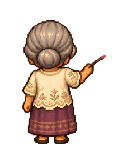
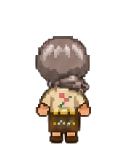
Replaced level 5 lola

diff --git a/tools/build_mayon_performance.py b/tools/build_mayon_performance.py
@@ -1,5 +1,5 @@
 #!/usr/bin/env python3
-"""Cut the original generated Mayon performance atlases into registered game sprites.
+"""Cut Mayon's actor atlases and supplied Lola performance board into game sprites.
 
 This is extraction, not sprite recolouring: originals and prompts are retained in
 LEVEL5_Mayon/authored. One scale per actor preserves head size in seated poses.
@@ -7,18 +7,76 @@ LEVEL5_Mayon/authored. One scale per actor preserves head size in seated poses.
 from pathlib import Path
 import argparse
 from PIL import Image
+import numpy as np
+from scipy import ndimage
 import pixelart
 from build_portrait_outlines import outlined
 
 ROOT = Path(__file__).resolve().parent.parent
 SOURCE = ROOT / 'LEVEL5_Mayon/authored'
 OUT = ROOT / 'game/assets/Level5'
-LOLA = ['back', 'paint', 'turn', 'front', 'flowers', 'remember', 'seated', 'seated_flowers']
 APO = ['raise', 'paint', 'failed', 'lower', 'seated', 'seated_paint', 'offer', 'pickup']
 # Cells the atlases still hold but the game no longer shows: the real room went when the run
 # began ending in the house (#182). The lists above stay whole because they name the atlas's
 # cells in order; these are only not written. frame_room.png is kept with the other originals.
 RETIRED = {'seated', 'seated_flowers', 'seated_paint', 'pickup'}
+LOLA_CELL = (128, 144)
+LOLA_HEIGHT = 108
+
+
+def silhouette(sheet, region):
+    """Extract an actor without disconnected tips from an adjacent atlas cell."""
+    frame = sheet.crop(region)
+    alpha = np.asarray(frame.getchannel('A')).copy()
+    components, _ = ndimage.label(alpha >= 32, structure=np.ones((3, 3)))
+    areas = np.bincount(components.ravel())
+    areas[0] = 0
+    alpha[components != int(areas.argmax())] = 0
+    frame.putalpha(Image.fromarray(alpha))
+    return frame
+
+
+def registered_strip(frames, walking=False):
+    bounds = [frame.getbbox() for frame in frames]
+    scale = LOLA_HEIGHT / max(box[3] - box[1] for box in bounds)
+    baseline = max(box[3] for box in bounds)
+    strip = Image.new('RGBA', (LOLA_CELL[0] * len(frames), LOLA_CELL[1]))
+    for i, frame in enumerate(frames):
+        bottom = baseline if walking else bounds[i][3]
+        feet = frame.crop((0, bottom - 10, frame.width, bottom)).getbbox()
+        centre = frame.width / 2 if walking else (feet[0] + feet[2]) / 2
+        size = (round(frame.width * scale), round(frame.height * scale))
+        strip.alpha_composite(frame.resize(size, Image.Resampling.NEAREST),
+                              (i * LOLA_CELL[0] + LOLA_CELL[0] // 2 - round(centre * scale),
+                               LOLA_CELL[1] - round(bottom * scale)))
+    return strip
+
+
+def lola_assets():
+    sheet = Image.open(SOURCE / 'lola_supplied_sheet.png').convert('RGBA')
+    sheet.putalpha(sheet.getchannel('A').point(lambda a: a if a >= 32 else 0))
+    regions = {
+        'front': (310, 30, 410, 190),
+        'turn': (595, 30, 690, 190),
+        'back': (875, 30, 985, 190),
+        'flowers': (285, 410, 385, 550),
+        'remember': (405, 410, 510, 550),
+    }
+    for pose, region in regions.items():
+        frame = silhouette(sheet, region)
+        yield pose, registered_strip([frame])
+    walks = [silhouette(sheet, (295 + i * 119, 250, 405 + i * 119, 385)) for i in range(6)]
+    yield 'walk', registered_strip(walks, walking=True)
+    # Two supplied six-frame painting loops, then six pause/idle variations.
+    painting = Image.new('RGBA', (18 * LOLA_CELL[0], LOLA_CELL[1]))
+    for row, (top, bottom) in enumerate([(800, 975), (1020, 1205), (1250, 1445)]):
+        poses = [silhouette(sheet, (30 + i * 165, top, 170 + i * 165, bottom)) for i in range(6)]
+        # The board draws its three animation rows at different source sizes.
+        painting.alpha_composite(registered_strip(poses), (row * 6 * LOLA_CELL[0], 0))
+    yield 'painting_idle', painting
+    yield 'paint', painting.crop((3 * LOLA_CELL[0], 0, 4 * LOLA_CELL[0], LOLA_CELL[1]))
+    portrait = silhouette(sheet, (30, 65, 245, 338))
+    yield 'portrait', outlined(portrait.crop(portrait.getbbox()))
 
 
 def atlas(name, poses, height, cell):
@@ -45,19 +103,13 @@ def main():
     args = parser.parse_args()
     pictures = pixelart.Pictures(args.check, ROOT)
     for who, source, poses, height, cell in [
-        ('lola', 'lola_atlas.png', LOLA, 124, (128, 144)),
         ('apo', 'apo_performance_atlas.png', APO, 96, (112, 112)),
     ]:
         for pose, image in atlas(source, poses, height, cell):
             if pose not in RETIRED:
                 pictures.put(image, OUT / 'people' / f'{who}_{pose}.png')
-    sheet = Image.open(SOURCE / 'lola_atlas.png').convert('RGBA')
-    portrait = sheet.crop((1152 + 52, 54, 1536 - 48, 405))
-    # The same silhouette contract as the other dialogue speakers; this crop already
-    # ends below the hands, so it is a complete bust rather than another sprite cell.
-    portrait = outlined(portrait)
-    portrait = portrait.resize((round(portrait.width * 220 / portrait.height), 220), Image.Resampling.NEAREST)
-    pictures.put(portrait, OUT / 'people/lola_portrait.png')
+    for pose, image in lola_assets():
+        pictures.put(image, OUT / 'people' / f'lola_{pose}.png')
     if pictures.stale:
         raise SystemExit('Stale performance assets: ' + ', '.join(pictures.stale))
 

diff --git a/tools/build_mayon_lola.py b/tools/build_mayon_lola.py
@@ -1,7 +1,7 @@
 #!/usr/bin/env python3
 """Compatibility entry point for the dedicated Mayon performance asset builder.
 
-The old apo recolour has been replaced by a registered eight-pose Lola atlas.
+Lola uses the supplied board's turnaround, walking, painting loops and idle variations.
 Use build_mayon_performance.py for all character, room, and summit cuts.
 """
 from build_mayon_performance import main

diff --git a/ART_PLACEHOLDERS.md b/ART_PLACEHOLDERS.md
@@ -393,7 +393,7 @@ The darkness itself (`DarknessLayer`) is gameplay too: `LightField` decides what
 | **A loose page of her diary** | A 14 × 18 folded sheet with her lines on it, drawn pixel by pixel in the diary book's own five colours, shown at 2×, a little askew and bobbing. It has to say: *a page of a diary, dropped here, worth picking up*. | `game/assets/hud/diary_page.png` (`tools/build_diary_book.py`, `PAGE`), `game/scripts/diary_page_2d.gd` | A hand-drawn loose page of the same book; keep its foot at the bottom edge. |
 
 | **Lolo in her paintings** | Kent's own sheets of him alive (`game/assets/characters/lolo/source/LOLO1-5.png`, not imported), the FRONT pose cut and brought down to 18 px, standing in each painting's foreground -- young in Payyo, old in Mayon. At that size his eyes are lost. | `game/assets/hub/paintings/level_N_lolo.png` (`tools/build_house_lolo.py`), hung by `HouseEpilogue` once Mayon is done | A painter's figure of him drawn into each picture at its scale; keep it on the same foreground spot (`SPOTS`). |
-| **Lola walking** | Her side-on "turn" pose, flipped and stepping two pixels every quarter second -- there is no walk cycle. | `Lola2D.walk_to` | A walk cycle with the same foot registration as her other poses. |
+| **Lola walking** | Supplied six-frame walk cycle (5 November), mirrored leftward with a shared baseline. | `Lola2D.walk_to`, `people/lola_walk.png` | Done; replacement contract in the Mayon authored README. |
 | **The empty easel** | Drawn in code: three legs and a bare canvas at the house's scale (96 × 56). | `HouseEpilogue._draw_easel` | An easel sprite, its canvas bare; she paints at its left. |
 
 The book itself (`game/assets/hud/diary_book.png`) is not a placeholder: it is the delivered page
@@ -420,7 +420,7 @@ include.
 
 | | Now | Where | Replace with |
 |---|---|---|---|
-| **Lola** | Dedicated generated painting, turning, flower, returning, and seated poses; a separately cut and outlined portrait. | `game/assets/Level5/people/lola_*.png` (`tools/build_mayon_performance.py`) | Art-directed same-name poses with the same foot registration. |
+| **Lola** | Latest supplied board (5 November): turnaround, walk, two six-frame painting loops, six idle variations and large portrait. 108px world height. Front/back bouquet poses are generated adaptations of that design. | `game/assets/Level5/people/lola_*.png` (`tools/build_mayon_performance.py`) | Supplied character integrated; bouquet adaptations remain generated. Same-name replacements preserve foot registration. |
 | **The real room** | **Removed** (2026-11-01): the run ends in the house (`HouseEpilogue`), and `frame_return.gd` went with #182. The room, and Lola's and the apo's seated and pickup poses, are no longer cut into the game; the generated original stays in `LEVEL5_Mayon/authored/frame_room.png`. | -- | Nothing, unless the room comes back. |
 | **The apo's performance** | Generated raise, paint, failed, lower and offer poses. Quiet strokes fade over the actual scene. | `game/assets/Level5/people/apo_*.png`, `level_5.gd` | Art-directed poses or animation preserving actor scale and feet. |
 | **Memory fragments** | Torn boxes of the finished paintings; the flower's is a scrap of path tile with Payyo's hidden flower. | `game/assets/Level5/fragments/` (`tools/build_mayon_fragments.py`) | Hand-torn fragments; the flower's should look like nothing. |

diff --git a/LEVEL5_Mayon/authored/README.md b/LEVEL5_Mayon/authored/README.md
@@ -4,7 +4,7 @@ Generated on 31 October 2026 with the built-in OpenAI image_gen tool. The origin
 apo turnaround and delivered Mayon painting were style references. Full prompts
 are retained in `prompts.json`; no downloaded or third-party stock assets were used.
 
-- `lola_atlas.png`: eight equal cells, four columns by two rows. Back, painting,
+- `lola_atlas.png`: retired Lola source, eight equal cells, four columns by two rows. Back, painting,
   turning, front, receiving flowers, returning to the painting, seated listening,
   seated with flowers. This replaces the child's turnaround recoloured grey.
 - `apo_performance_atlas.png`: raise, paint, failed attempt, lower, seated,
@@ -17,6 +17,32 @@ resolution. Since the run ends in the house (#182) it no longer cuts the room, n
 the seated and pickup cells, which the game stopped showing; the originals stay here.
 One scale per atlas preserves head size across standing and seated poses. Original
 sources stay here; runtime paths stay under `game/assets/Level5/`.
+
+## Supplied Lola board — 5 November 2026
+
+`lola_supplied_board.png` is the latest user-supplied sheet, replacing the earlier
+Lola designs. `lola_supplied_sheet.png` is its transparent extraction prepared with
+the built-in image_gen tool; the exact prompt is `lola_supplied_sheet.prompt.txt`.
+The first two unused run figures were adapted into front/back bouquet poses for
+the existing flower ending. Turnaround, walking, painting and idle poses follow
+the supplied artwork, including the embroidered back of her blouse and tied hair.
+
+`build_mayon_performance.py` owns the measured cuts and writes 128x144 bottom-centred
+cells with a 108px standing height. Each animation row has a common scale; the
+board's different source row sizes are normalized separately. Connected silhouettes
+exclude neighbouring brush tips, dark shoe pixels stay intact, and planted feet
+register painting frames. Walk frames retain the source stride and a common baseline.
+The large hero supplies the outlined dialogue bust, cropped at the hands.
+
+Runtime `lola_painting_idle.png` contains 18 columns: six back-view painting frames,
+six three-quarter-back painting frames, then six pauses/idle variations. `Lola2D`
+plays both loops with longer rests, inspecting and leaning poses, pauses with the
+scene, and holds the first resting idle for Reduce Motion. Story turns, greetings
+and flower holding interrupt the animation. `lola_walk.png` supplies six walk frames,
+mirrored for leftward travel. The house uses the same replacement character.
+
+Run the builder with `--check` to compare without writing, and reimport in Godot
+after rebuilding. The original generated Lola atlas stays for provenance only.
 
 ## Art review and remaining provisional material
 

diff --git a/LEVEL_5.md b/LEVEL_5.md
@@ -339,6 +339,13 @@ in the authored README and `ART_PLACEHOLDERS.md`.
 
 ### Painted colours
 
+**Lola's supplied board (5 November 2026).** The latest user sheet replaces Lola at
+the summit and in the house, including the large dialogue portrait and walking cycle.
+Her world height is 108px. Both six-frame painting loops and all six idle variations
+play with planted feet and longer rests; Reduce Motion holds a resting pose. Story
+turns and the flower handoff take precedence. Source, transparency/bouquet adaptation
+prompt and rebuild contract are in `LEVEL5_Mayon/authored/README.md`.
+
 Until November 2026, `drain.gdshader` sampled the texture that Godot 4's `COLOR` already carries,
 squaring every colour. Whatever wore the drain therefore drew darker than painted from the start:
 the old crossing, the old steps, the pale palm and all twelve memory fragments. After a
